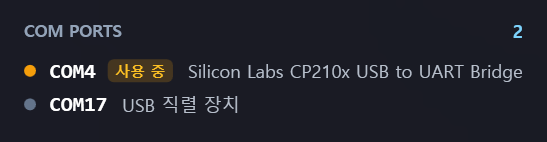
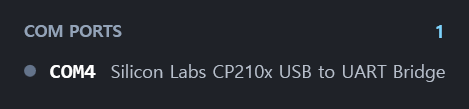
UI 영문화, 데모 GIF·영문 README 추가, 1포트 높이 클리핑 수정
- UI 문자열 전부 영문화 (메뉴/배지/빈 목록/트레이)
- docs/demo.gif: 포트 점유 감지 데모, README 상단 배치
- README.md 한글 유지 + README.en.md 영문판 링크
- 스크린샷 영문 UI로 재촬영
- ResizeToContent에서 UpdateLayout 선행 → 포트 행 생성 전 측정으로
  창 높이가 잘리던 문제 수정

Changed region(s): [[0.0299, 0.4128, 0.9552, 0.7982], [0.0299, 0.1651, 0.2687, 0.3578], [0.9254, 0.1651, 0.9552, 0.3578]]

diff --git a/MainWindow.xaml b/MainWindow.xaml
@@ -33,14 +33,14 @@
 
         <Border.ContextMenu>
             <ContextMenu>
-                <MenuItem Header="새로 고침" Click="Refresh_Click"/>
-                <MenuItem x:Name="TopmostMenu" Header="항상 위" IsCheckable="True" IsChecked="True" Click="Topmost_Click"/>
-                <MenuItem x:Name="BusyMenu" Header="점유 상태 표시" IsCheckable="True" IsChecked="True" Click="BusyWatch_Click"/>
-                <MenuItem x:Name="AutoHideMenu" Header="자동 숨김 (5분 무변동)" IsCheckable="True" IsChecked="True" Click="AutoHide_Click"/>
-                <MenuItem Header="투명도 초기화 (Ctrl+휠로 조절)" Click="ResetTint_Click"/>
+                <MenuItem Header="Refresh" Click="Refresh_Click"/>
+                <MenuItem x:Name="TopmostMenu" Header="Always on top" IsCheckable="True" IsChecked="True" Click="Topmost_Click"/>
+                <MenuItem x:Name="BusyMenu" Header="Detect port usage" IsCheckable="True" IsChecked="True" Click="BusyWatch_Click"/>
+                <MenuItem x:Name="AutoHideMenu" Header="Auto-hide (after 5 min idle)" IsCheckable="True" IsChecked="True" Click="AutoHide_Click"/>
+                <MenuItem Header="Reset opacity (Ctrl+Wheel)" Click="ResetTint_Click"/>
                 <Separator/>
                 <MenuItem x:Name="VersionMenu" IsEnabled="False" FontSize="11"/>
-                <MenuItem Header="종료" Click="Exit_Click"/>
+                <MenuItem Header="Exit" Click="Exit_Click"/>
             </ContextMenu>
         </Border.ContextMenu>
 
@@ -73,7 +73,7 @@
                                     Background="#33F59E0B" CornerRadius="4"
                                     Padding="5,1" Margin="8,0,0,0"
                                     VerticalAlignment="Center">
-                                <TextBlock Text="사용 중" Foreground="#FBBF24"
+                                <TextBlock Text="In use" Foreground="#FBBF24"
                                            FontSize="10" FontWeight="Bold"/>
                             </Border>
                             <TextBlock x:Name="DescText"
@@ -106,7 +106,7 @@
             </ItemsControl>
 
             <!-- 포트 없음 -->
-            <TextBlock Text="연결된 COM 포트 없음"
+            <TextBlock Text="No COM ports connected"
                        Foreground="#6B7280" FontSize="12" Margin="0,2,0,0">
                 <TextBlock.Style>
                     <Style TargetType="TextBlock">

diff --git a/MainWindow.xaml.cs b/MainWindow.xaml.cs
@@ -353,8 +353,8 @@ public partial class MainWindow : Window
             if (e.Button == WinForms.MouseButtons.Left) ToggleWidget();
         };
         var menu = new WinForms.ContextMenuStrip();
-        menu.Items.Add("표시/숨김", null, (_, _) => ToggleWidget());
-        menu.Items.Add("종료", null, (_, _) => Close());
+        menu.Items.Add("Show / Hide", null, (_, _) => ToggleWidget());
+        menu.Items.Add("Exit", null, (_, _) => Close());
         _tray.ContextMenuStrip = menu;
     }
 
@@ -552,6 +552,10 @@ public partial class MainWindow : Window
 
     private void ResizeToContent()
     {
+        // ObservableCollection 변경 직후엔 ItemsControl이 행 컨테이너를 아직 생성하지
+        // 않아 Measure가 행 높이를 누락한다. UpdateLayout()으로 대기 중인 레이아웃(=행
+        // 생성)을 먼저 반영한 뒤 측정해야 정확한 높이가 나온다.
+        UpdateLayout();
         Root.Measure(new Size(double.PositiveInfinity, double.PositiveInfinity));
         Width = Root.DesiredSize.Width;
         Height = Root.DesiredSize.Height;

diff --git a/README.en.md b/README.en.md
@@ -1,0 +1,67 @@
+# ComportMonitor
+
+[한국어](README.md) · **English**
+
+A translucent **COM port monitor widget** that floats on your Windows desktop. See at a glance which serial ports are connected and which ones another program is using — without ever opening Device Manager. Built for the plug-and-unplug workflow of embedded development (ESP32, Arduino, and the like).
+
+![demo](docs/demo.gif)
+
+> When another program opens a port, an `In use` badge appears instantly, and disappears when the port is released.
+
+| Default (acrylic blur) | Max tint (near-opaque) |
+|---|---|
+| ![acrylic](docs/screenshot-acrylic.png) | ![dark](docs/screenshot-dark.png) |
+
+## Features
+
+- **Live list** — updates the instant a USB device is plugged or unplugged (`WM_DEVICECHANGE` events, no polling)
+- **Connect/disconnect highlight** — new ports flash 🟢 green, removed ports show a 🔴 red strikethrough for 4 seconds
+- **In-use detection** — ports held by another program (terminal, flasher, etc.) get a 🟠 amber dot + `In use` badge (checked every 3 s, toggleable from the right-click menu)
+- **Device names** — the same friendly name as Device Manager (e.g. `Silicon Labs CP210x USB to UART Bridge`), with VID/PID in the tooltip
+- **Opacity control** — one axis from solid panel ↔ acrylic blur ↔ ghost mode (text fades too)
+- **Edge magnet snap** — snaps to monitor edges while dragging
+- **Auto-hide** — hides after 5 minutes with no port activity, reappears on the next change (optional)
+- **Tray icon** — left-click to show/hide, right-click menu to exit
+- **Widget UX** — always on top, hidden from taskbar/Alt-Tab, drag to move, position & settings saved automatically
+
+## Controls
+
+| Action | How |
+|---|---|
+| Move | Drag the widget (snaps near monitor edges) |
+| Opacity | **Ctrl + mouse wheel** over the widget (up = more solid, down = more transparent) |
+| Refresh / options / exit | **Right-click** context menu |
+
+Settings are stored in `%APPDATA%\ComportMonitor\settings.json`.
+
+## Download
+
+From [Releases](https://github.com/firepooh/ComportMonitor/releases):
+
+| File | Size | Requirement |
+|---|---|---|
+| `ComportMonitor-standalone.exe` | ~60 MB | None — runs on any PC |
+| `ComportMonitor.exe` | ~1 MB | Needs the [.NET 8 Desktop Runtime](https://dotnet.microsoft.com/download/dotnet/8.0) (you'll get an install prompt if it's missing) |
+
+## Requirements
+
+- Windows 11 (the acrylic background and rounded corners use DWM features; on Windows 10 the appearance may differ)
+
+## Build
+
+```
+dotnet build -c Release
+```
+
+Or just open `ComportMonitor.csproj` in Visual Studio 2022.
+Output: `bin\Release\net8.0-windows\ComportMonitor.exe`
+
+## How it works
+
+- **Port enumeration**: filters WMI `Win32_PnPEntity` by the Ports class GUID (`{4d36e978-e325-11ce-bfc1-08002be10318}`). `Win32_SerialPort` is avoided because it misses USB CDC devices (e.g. the ESP32-S3 USB-JTAG).
+- **In-use detection**: a `CreateFile` probe with zero access rights. Serial drivers allow only a single open, so zero-access is enough to tell whether a port is taken — and because it never initialises the port, the risk of a DTR/RTS glitch (board reset) is minimised.
+- **Translucent window**: WPF `AllowsTransparency` is avoided because it clips the window to 96-DPI dimensions when the monitor DPI differs from the system DPI. Instead the app uses the DWM acrylic backdrop (`DWMWA_SYSTEMBACKDROP_TYPE`), and ghost mode is done with manual `WS_EX_LAYERED` + `SetLayeredWindowAttributes` — WPF strips that style, so a `SetWindowSubclass` hook restores the bit right after WPF processes it.
+
+## License
+
+[MIT](LICENSE)